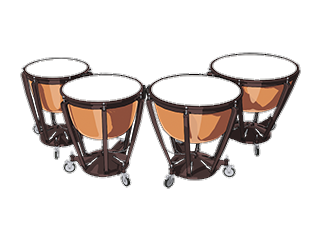
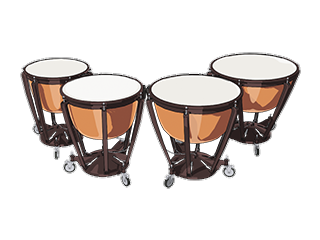
feat(instruments): 还原鼓面、聚形收尾减速并改官网式留白列表

diff --git a/src/components/instruments/InstrumentList.tsx b/src/components/instruments/InstrumentList.tsx
@@ -33,23 +33,23 @@ function InstrumentRow({ instrument, selected, compact = false, onSelect, onPrev
       onMouseEnter={onPreview}
       onFocus={onPreview}
       aria-current={selected || undefined}
-      className={`inst-row group relative flex w-full items-baseline gap-3 border-b border-white/50 text-left ${
-        compact ? 'py-1.5' : 'py-[0.3rem]'
+      className={`inst-row group relative block w-full border-b border-white/50 text-left ${
+        compact ? 'py-1.5' : 'h-[3.95vh]'
       }`}
     >
       <span
-        className={`inst-row-main relative font-bold ${compact ? 'text-sm' : 'text-[clamp(1.1rem,2.5vh,1.45rem)] leading-tight'} ${
+        className={`inst-row-main relative font-bold ${compact ? 'flex items-baseline gap-3 text-sm' : 'absolute bottom-[0.55vh] left-0 flex w-full items-baseline gap-3 text-[clamp(1.2rem,2.4vh,1.65rem)] leading-none'} ${
           selected ? 'text-white' : 'text-white/55'
         }`}
       >
         {instrument.name}
-      </span>
-      <span
-        className={`inst-row-main relative font-semibold uppercase tracking-[0.12em] ${
-          compact ? 'text-[0.58rem]' : 'text-[clamp(0.72rem,1.5vh,0.95rem)]'
-        } ${selected ? 'text-white/80' : 'text-white/35'}`}
-      >
-        {instrument.nameEn}
+        <span
+          className={`inst-row-main relative font-semibold uppercase tracking-[0.12em] ${
+            compact ? 'text-[0.58rem]' : 'text-[clamp(0.78rem,1.55vh,1.05rem)]'
+          } ${selected ? 'text-white/80' : 'text-white/35'}`}
+        >
+          {instrument.nameEn}
+        </span>
       </span>
       {!compact && (
         <span className="inst-ghost hidden lg:block" aria-hidden>
@@ -63,10 +63,10 @@ function InstrumentRow({ instrument, selected, compact = false, onSelect, onPrev
 function GroupHeader({ name, nameEn, compact = false }: { name: string; nameEn: string; compact?: boolean }) {
   return (
     <div
-      className={`inst-group-header flex items-baseline gap-2 ${compact ? 'mb-0.5 mt-3' : 'mb-1 mt-4'}`}
+      className={`inst-group-header flex items-baseline gap-2 ${compact ? 'mb-0.5 mt-3' : 'mb-[0.5vh] mt-[1.3vh]'}`}
     >
-      <span className={`font-bold ${compact ? 'text-xs' : 'text-[clamp(1rem,2.2vh,1.3rem)]'} text-white/75`}>{name}</span>
-      <span className="text-[0.7rem] font-semibold uppercase tracking-[0.32em] text-brand/90">
+      <span className={`font-bold ${compact ? 'text-xs' : 'text-[clamp(1.05rem,2.3vh,1.4rem)]'} text-white/75`}>{name}</span>
+      <span className="text-[0.75rem] font-semibold uppercase tracking-[0.32em] text-brand/90">
         {nameEn}
       </span>
     </div>
@@ -90,7 +90,7 @@ export function InstrumentList({
     <>
       <nav
         aria-label="乐器列表"
-        className={`inst-panel inst-list absolute left-[clamp(1.5rem,8vw,9rem)] top-1/2 z-10 hidden w-[min(56vw,42rem)] -translate-y-1/2 sm:block ${
+        className={`inst-panel inst-list absolute left-[clamp(1.5rem,8vw,9rem)] top-1/2 z-10 hidden w-[min(58vw,44rem)] -translate-y-1/2 sm:block ${
           visible ? 'visible opacity-100' : 'invisible -translate-x-6 opacity-0'
         }`}
         onMouseEnter={() => onListHoverChange(true)}

diff --git a/src/lib/particleField.ts b/src/lib/particleField.ts
@@ -11,7 +11,10 @@ const SCATTER_JITTER = 100
 /** AK "SPREAD" mode: particles flee the pointer, then ease back into the shape. */
 const REPEL_STRENGTH = -100
 /** Frames a particle waits before its alpha starts easing in — the shape refines in waves. */
-const REVEAL_SPREAD = 170
+const REVEAL_SPREAD = 200
+/** Within this distance of the target the approach eases into a slow final settle. */
+const SETTLE_DISTANCE = 90
+const SETTLE_FACTOR = 0.22
 /** Curved approach: perpendicular sinusoid while a particle is still far from its target. */
 const WOBBLE_AMPLITUDE = 16
 const WOBBLE_RANGE = 320
@@ -42,6 +45,7 @@ export class ParticleField {
   private speeds: Float32Array
   private reveals: Float32Array
   private phases: Float32Array
+  private sEffCache: Float32Array
   private targets: Float32Array | null = null
   private targetCount = 0
   private transform: ParticleTransform = { scale: 1, x: 0, y: 0 }
@@ -55,7 +59,7 @@ export class ParticleField {
   private flySpeeds: Float32Array
   private flyLives: Float32Array
 
-  constructor({ count, flyCount = 0, view, sizeRange = [1.5, 2.8], speedRange = [30, 60] }: FieldOptions) {
+  constructor({ count, flyCount = 0, view, sizeRange = [1.5, 2.8], speedRange = [40, 80] }: FieldOptions) {
     this.count = count
     this.total = count + flyCount
     this.flyCount = flyCount
@@ -66,6 +70,7 @@ export class ParticleField {
     this.speeds = new Float32Array(count)
     this.reveals = new Float32Array(count)
     this.phases = new Float32Array(count)
+    this.sEffCache = new Float32Array(count)
     this.flySpeeds = new Float32Array(flyCount)
     this.flyLives = new Float32Array(flyCount)
 
@@ -183,6 +188,10 @@ export class ParticleField {
           Math.min(dist / WOBBLE_RANGE, 1)
         tx += (-dy / dist) * wob
         ty += (dx / dist) * wob
+        // The final settle crawls: drop most of the speed once close to the target.
+        this.sEffCache[i] = s * (SETTLE_FACTOR + (1 - SETTLE_FACTOR) * Math.min(dist / SETTLE_DISTANCE, 1))
+      } else {
+        this.sEffCache[i] = s
       }
 
       // Staggered reveal: alpha only starts easing in once this particle's turn arrives.
@@ -191,8 +200,9 @@ export class ParticleField {
         ta = 0
       }
 
-      positions[px] += (tx - positions[px]) * s
-      positions[px + 1] += (ty - positions[px + 1]) * s
+      const se = this.sEffCache[i]
+      positions[px] += (tx - positions[px]) * se
+      positions[px + 1] += (ty - positions[px + 1]) * se
       alphas[i] += (ta - alphas[i]) * s
 
       if (pointer.active) {

diff --git a/src/components/instruments/instruments.css b/src/components/instruments/instruments.css
@@ -37,8 +37,7 @@
 .inst-ghost {
   position: absolute;
   right: 0.75rem;
-  bottom: 50%;
-  transform: translateY(50%);
+  bottom: 0.2vh;
   font-weight: 900;
   font-size: clamp(2.6rem, 7vh, 5rem);
   letter-spacing: -0.02em;
@@ -143,16 +142,4 @@
 .inst-artifact[data-show='true'] {
   opacity: 1;
   visibility: visible;
-}
-
-/* Short viewports: tighten the 18-row list so it never overflows the screen. */
-@media (max-height: 919px) {
-  .inst-list .inst-row {
-    padding-top: 0.1rem;
-    padding-bottom: 0.1rem;
-  }
-  .inst-list .inst-group-header {
-    margin-top: 0.5rem;
-    margin-bottom: 0.25rem;
-  }
 }
